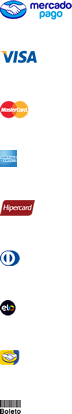
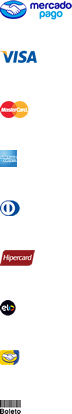
changed positions for diners

Changed region(s): [[0.0, 0.5797, 0.4722, 0.6667], [0.0, 0.4638, 0.5, 0.5217]]

diff --git a/index.html b/index.html
@@ -17,9 +17,10 @@
 
 	<!-- Components -->
 	<link rel="stylesheet" type="text/css" href="css/payment-methods.css">
-	<link rel="stylesheet" type="text/css" href="css/countries/ar/payment-methods.css">
-	<link rel="stylesheet" type="text/css" href="css/countries/ar/default/payment-methods.css">
-	<link rel="stylesheet" type="text/css" href="css/countries/ar/large/payment-methods.css">
+	<link rel="stylesheet" id="country" type="text/css" href="css/countries/ar/payment-methods.css">
+	<link rel="stylesheet" id="country-default" type="text/css" href="css/countries/ar/default/payment-methods.css">
+	<link rel="stylesheet" id="country-large" type="text/css" href="css/countries/ar/large/payment-methods.css">
+
 
 
 	<style type="text/css">
@@ -68,14 +69,26 @@
 </head>
 <body>
 	<header>
-		<h1>Argentina Payment Methods</h1>
+		<h1>Payment Methods</h1>
+		<nav>
+			Choose a Country:
+			<select id="country-select">
+				<option value="ar">Argentina</option>
+				<option value="br">Brazil</option>
+				<option value="mx" disabled="disabled">Mexico</option>
+				<option value="ve">Venezuela</option>
+				<option value="co">Colombia</option>
+			</select>
 	</header>
+
 
 	<section>
 		<h1>Default size</h1>
 
 		<h2>List</h2>
-		<div class="ch-box-lite">
+		
+		<div class="ch-box-lite country-box ar">
+			<h3>Argentina</h3>
 			<ul>
 				<li class="paymentmethod-account_money">Dinero en cuenta MercadoPago</li>
 				<li class="paymentmethod-visa">Visa</li>
@@ -94,7 +107,22 @@
 				<li class="paymentmethod-banelco">Banelco</li>
 			</ul>
 		</div>
-
+		
+		<div class="ch-box-lite country-box br" style="display: none">
+			<h3>Brazil</h3>
+			<ul>
+				<li class="paymentmethod-account_money">Dinero en cuenta MercadoPago</li>
+				<li class="paymentmethod-visa">Visa</li>
+				<li class="paymentmethod-master">Mastercard</li>
+				<li class="paymentmethod-hipercard">Hipercard</li>
+				<li class="paymentmethod-amex">American Express</li>
+				<li class="paymentmethod-diners">Diners</li>
+				<li class="paymentmethod-elo">Elo</li>
+				<li class="paymentmethod-melicard">MercadoLivre Card</li>
+				<li class="paymentmethod-bolbradesco">Boleto</li>
+			</ul>
+		</div>
+<!--
 		<h2>Thiner List</h2>
 		<div class="ch-box-lite">
 			<ul class="thiner-list">
@@ -190,12 +218,13 @@
 		</div>
 
 	</section>
-
+-->
 	<section>
 	<h1>Large size</h1>
 
-	<h2>List</h2>
-	<div class="ch-box-lite">
+	
+	<div class="ch-box-lite country-box ar">
+		<h2>Argentina</h2>
 		<ul>
 			<li class="paymentmethod-account_money paymentmethod-large">Dinero en cuenta MercadoPago</li>
 			<li class="paymentmethod-visa paymentmethod-large">Visa</li>
@@ -212,9 +241,25 @@
 			<li class="paymentmethod-rapipago paymentmethod-large">Rapipago</li>
 			<li class="paymentmethod-bapropagos paymentmethod-large">BaproPagos</li>
 			<li class="paymentmethod-banelco paymentmethod-large">Banelco</li>
+			
 		</ul>
 	</div>
 
+		<div class="ch-box-lite country-box br" style="display: none">
+		<h2>Brazil</h2>
+		<ul>
+			<li class="paymentmethod-account_money paymentmethod-large">Dinero en cuenta MercadoPago</li>
+				<li class="paymentmethod-visa paymentmethod-large">Visa</li>
+				<li class="paymentmethod-master paymentmethod-large">Mastercard</li>
+				<li class="paymentmethod-hipercard paymentmethod-large">Hipercard</li>
+				<li class="paymentmethod-amex paymentmethod-large">American Express</li>
+				<li class="paymentmethod-diners paymentmethod-large">Diners</li>
+				<li class="paymentmethod-elo paymentmethod-large">Elo</li>
+				<li class="paymentmethod-melicard paymentmethod-large">MercadoLivre Card</li>
+				<li class="paymentmethod-bolbradesco paymentmethod-large">Boleto</li>
+		</ul>
+	</div>
+<!--
 	<h2>Thiner List</h2>
 	<div class="ch-box-lite">
 		<ul class="thiner-list">
@@ -255,8 +300,32 @@
 			<li class="paymentmethod-bapropagos paymentmethod-large">BaproPagos</li>
 			<li class="paymentmethod-banelco paymentmethod-large">Banelco</li>
 		</ul>
-	</div>
-	</section>
+	</div>-->
+	</section> 
+
+	<script src="http://static.mlstatic.com/org-img/ch/vendor/jquery/jquery-1.10.2.min.js"></script>
+	<script type="text/javascript">
+
+	$("#country-select").on('change', function(){
+		var country = $(this).val();
+		switchCss(country);
+		showDemo(country)
+	})
+
+	function switchCss(i) {
+		$("#country").attr("href", "css/countries/" + i + "/payment-methods.css");
+		$("#country-default").attr("href", "css/countries/" + i + "/default/payment-methods.css");
+		$("#country-large").attr("href", "css/countries/" + i + "/large/payment-methods.css");
+	}
+	
+	function showDemo(j) {
+		$(".country-box").hide();
+		$("." + j).show();
+
+	}
+	
+
+	</script>
 </body>
 </html>
 

diff --git a/css/countries/br/payment-methods.css b/css/countries/br/payment-methods.css
@@ -1,11 +1,10 @@
 /* Sprite position for Brazil Logos
 ---------------------------------------------------------------*/
-
-.paymentmethod-hipercard { 
-	background-position: 0 -200px; 
+.paymentmethod-diners { 
+    background-position: 0 -200px; 
 }
 
-.paymentmethod-diners { 
+.paymentmethod-hipercard { 
 	background-position: 0 -250px; 
 }
 
